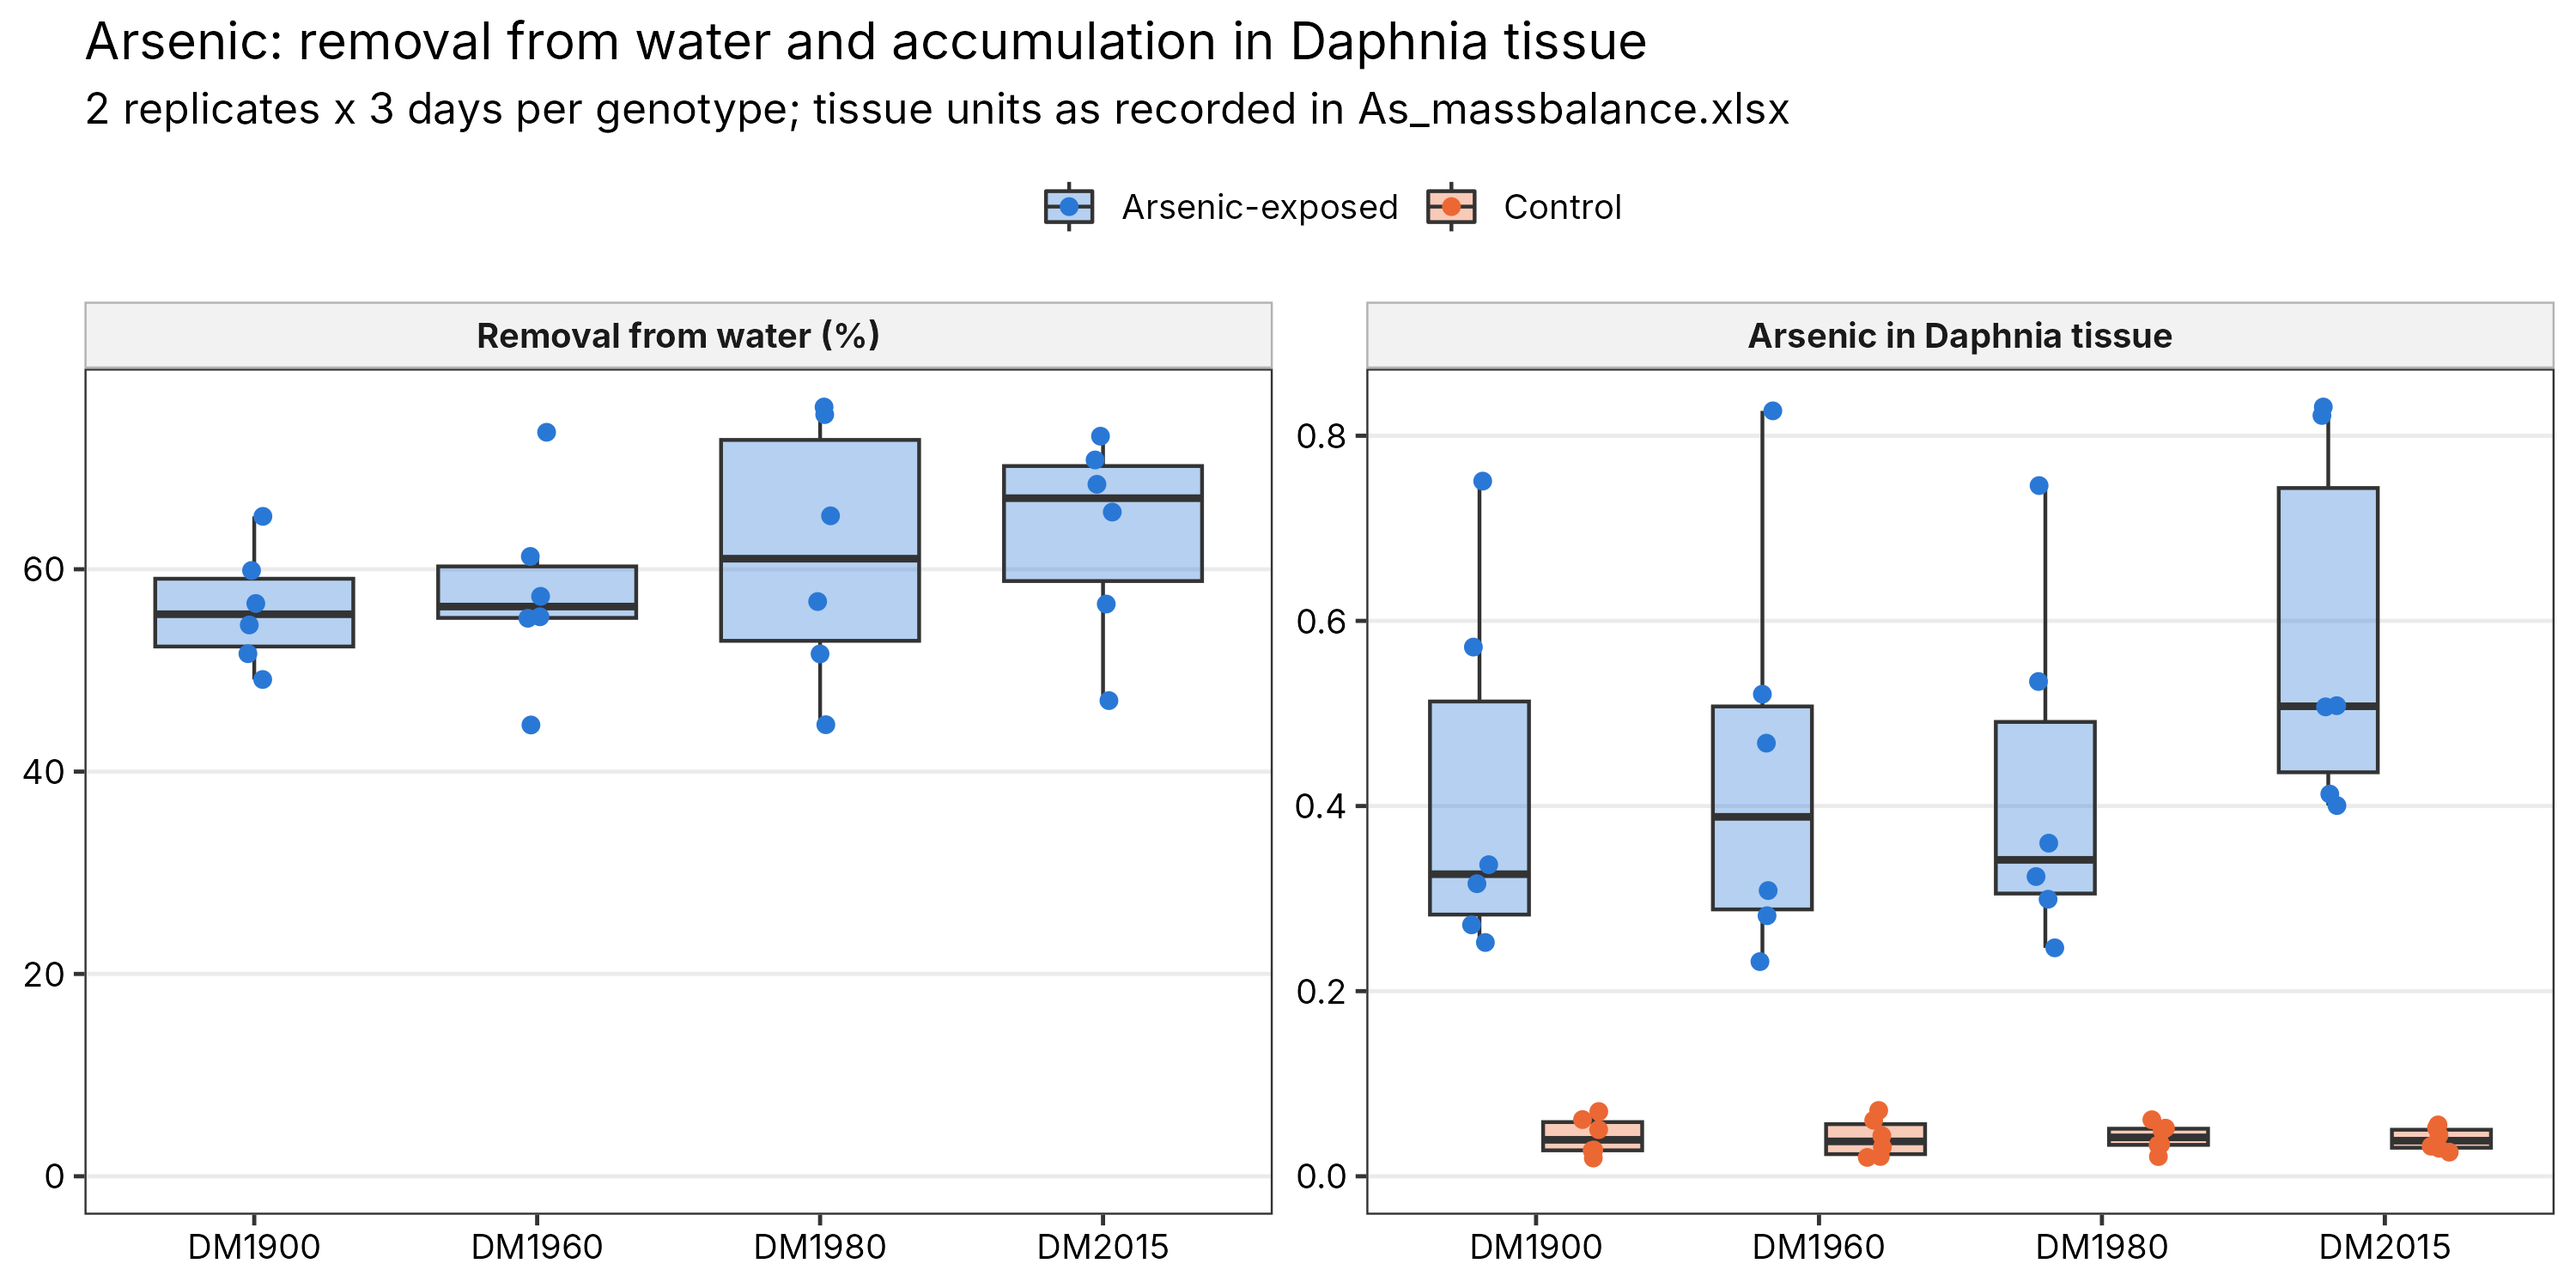
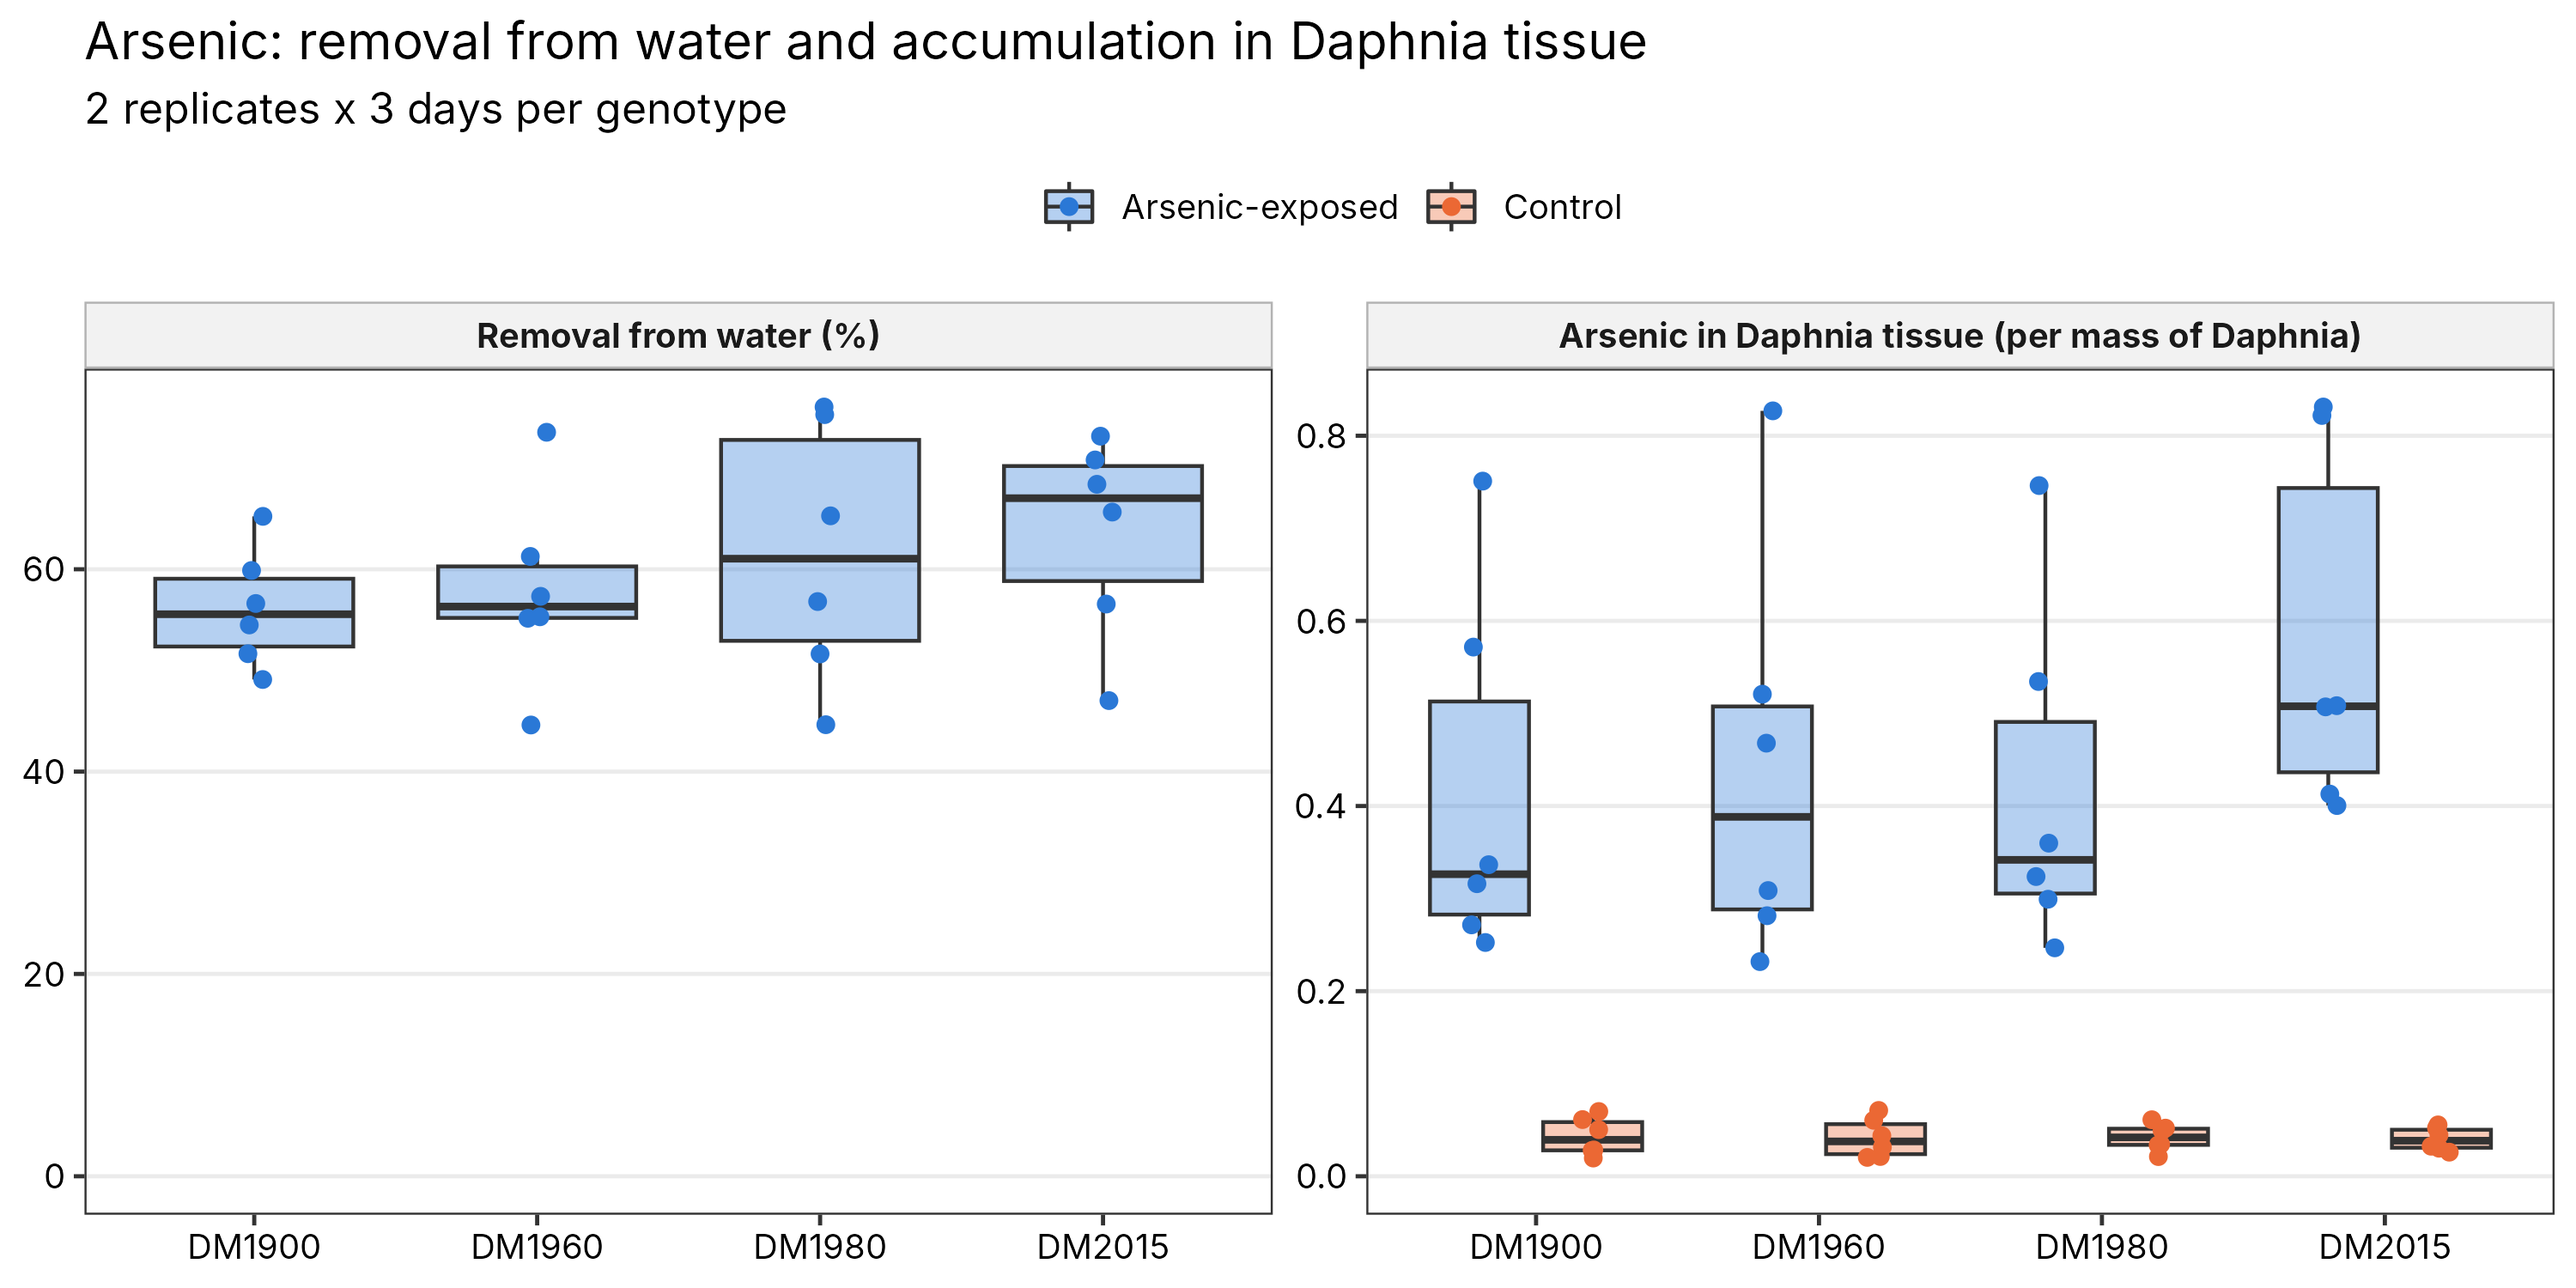
Label arsenic tissue concentration as per mass of Daphnia
Claude-Session: https://claude.ai/code/session_01Q4ez1oHjNgnYUvR6AcaCKb

Changed region(s): [[0.31, 0.0613, 0.682, 0.092], [0.589, 0.2453, 0.93, 0.276]]

diff --git a/mass_balance/README.md b/mass_balance/README.md
@@ -41,8 +41,9 @@ Rscript mass_balance/mass_balance_plots.R
    swapped, and DM1900 Day 1 and Day 3 have both replicates labelled 1
    (fixed in the script; matches Table S2 raw). Control water values are
    identical on all three days (858.4 / 719.1).
-7. **Tissue units**: the tissue sheet says "ng/L"; this needs checking
-   (probably per mass of Daphnia), so the plots say "as recorded".
+7. **Tissue units**: the tissue sheet header says "ng/L", but the values are
+   per mass of Daphnia (confirmed). The plots label them "per mass of Daphnia";
+   set `tissue_unit` in the script to the exact unit (e.g. ng/mg dry weight).
 8. **Genotype names differ between files**: `LR2_36_01` / `LRII_36` / `LRII3_16`
    and `LRV_01` / `LRV0_1` / `LRV_0_1`. The correct names are `LRII_36` and
    `LRV0_1`; the script uses these in all outputs.
